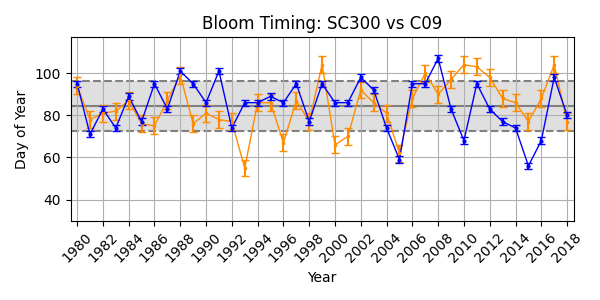
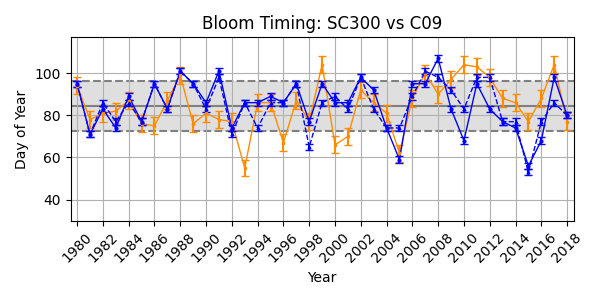
new ecosim overlay bt fig

diff --git a/code/evaluation/ecospace_eval_config.py b/code/evaluation/ecospace_eval_config.py
@@ -253,8 +253,8 @@ BT_DOMAIN_FILE = "analysis_domains_suchy.yml"
 BT_SAT_MASK_PF = r'..//..//..//SOGEM-LTL-data//data/reference//suchy_ecospace_mask.nc'
 
 
-BT_RECOMPUTE_BLOOM_TIMING_SAT = True  # Set to True to force recomputation as needed, saves time
-BT_RECOMPUTE_BLOOM_TIMING_C09 = True
+BT_RECOMPUTE_BLOOM_TIMING_SAT = False  # Set to True to force recomputation as needed, saves time
+BT_RECOMPUTE_BLOOM_TIMING_C09 = False
 
 BT_START_YEAR = 1980 # analysis years (exclude spinup?)
 BT_END_YEAR = 2018
